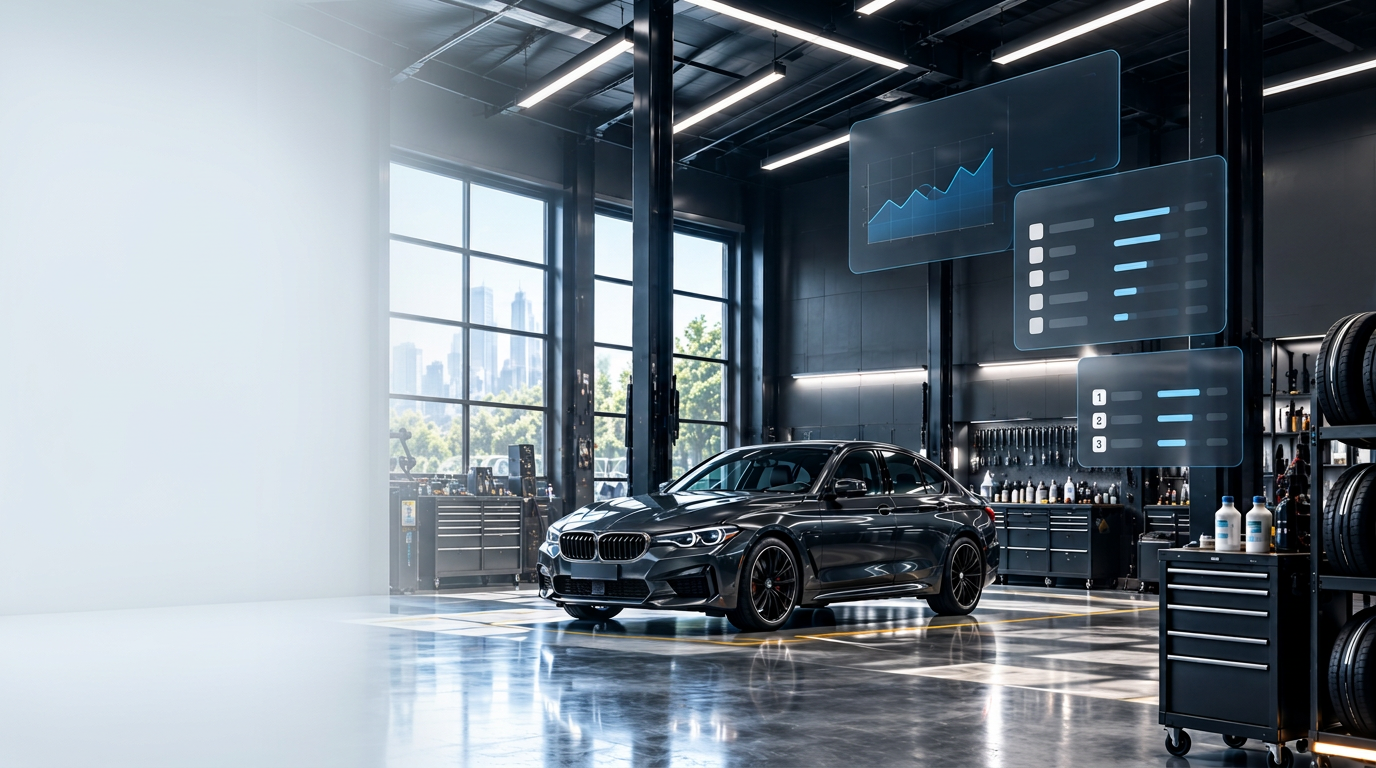
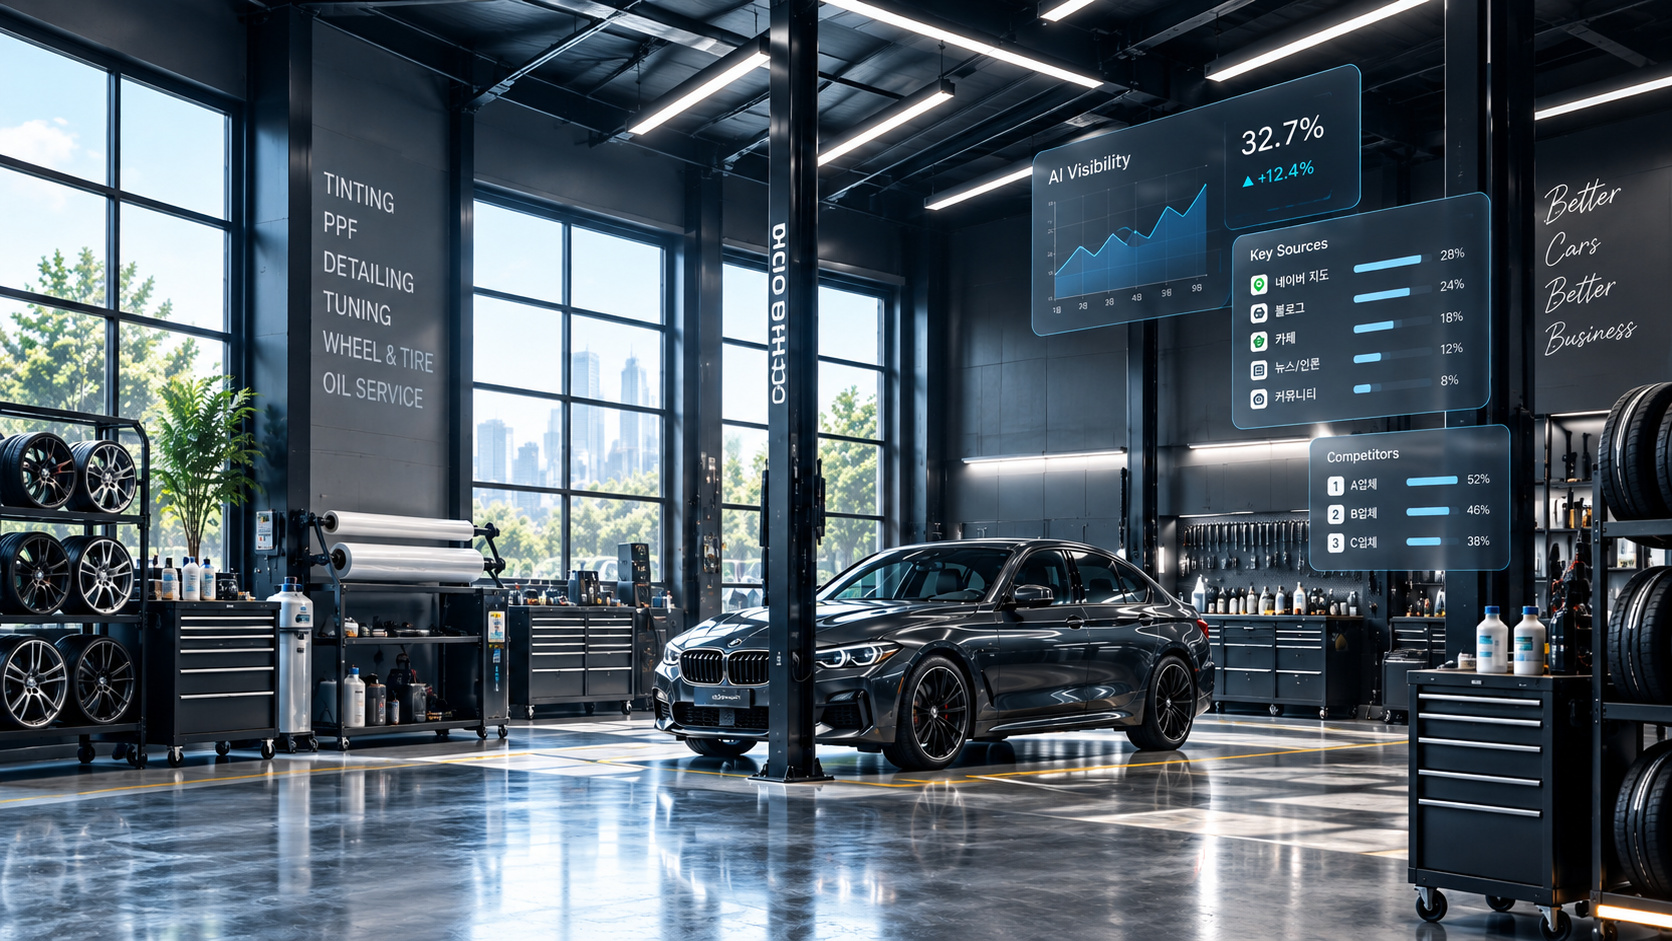
Changes

diff --git a/src/routes/index.tsx b/src/routes/index.tsx
@@ -174,7 +174,7 @@ function LandingPage() {
               alt=""
               className="absolute inset-0 h-full w-full object-cover object-center"
             />
-            <div className="absolute inset-0 bg-gradient-to-r from-card from-[22%] via-card/70 via-[34%] to-card/0 to-[48%]" />
+            <div className="absolute inset-0 bg-gradient-to-r from-card from-[20%] via-card/65 via-[31%] to-card/0 to-[44%]" />
             <div className="absolute inset-x-0 bottom-0 h-16 bg-gradient-to-b from-transparent to-card/60" />
           </div>
           <div className="relative mx-auto grid max-w-7xl gap-10 px-4 pb-12 pt-16 md:pb-16 md:pt-24 lg:min-h-[38rem] lg:grid-cols-[1.02fr_0.98fr] lg:items-center lg:gap-8 lg:px-6">
@@ -227,9 +227,11 @@ function LandingPage() {
               />
             </div>
           </div>
+        </section>
 
-          {/* Research panel */}
-          <div className="mx-auto max-w-7xl px-4 pb-16 lg:px-6">
+        {/* Research panel */}
+        <section className="border-b bg-background">
+          <div className="mx-auto max-w-7xl px-4 pb-16 pt-10 md:pt-12 lg:px-6">
             <div className="relative border-t-2 border-primary pt-1">
               <Card className="relative overflow-hidden rounded-lg border-border shadow-none">
                 <CardHeader className="border-b bg-muted/30 pb-4">
